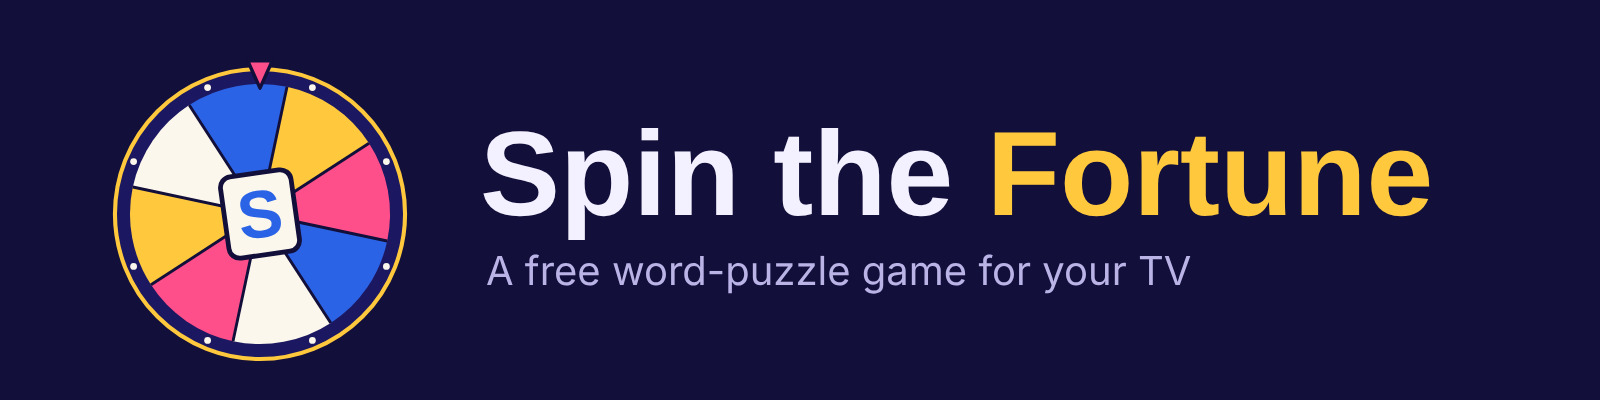
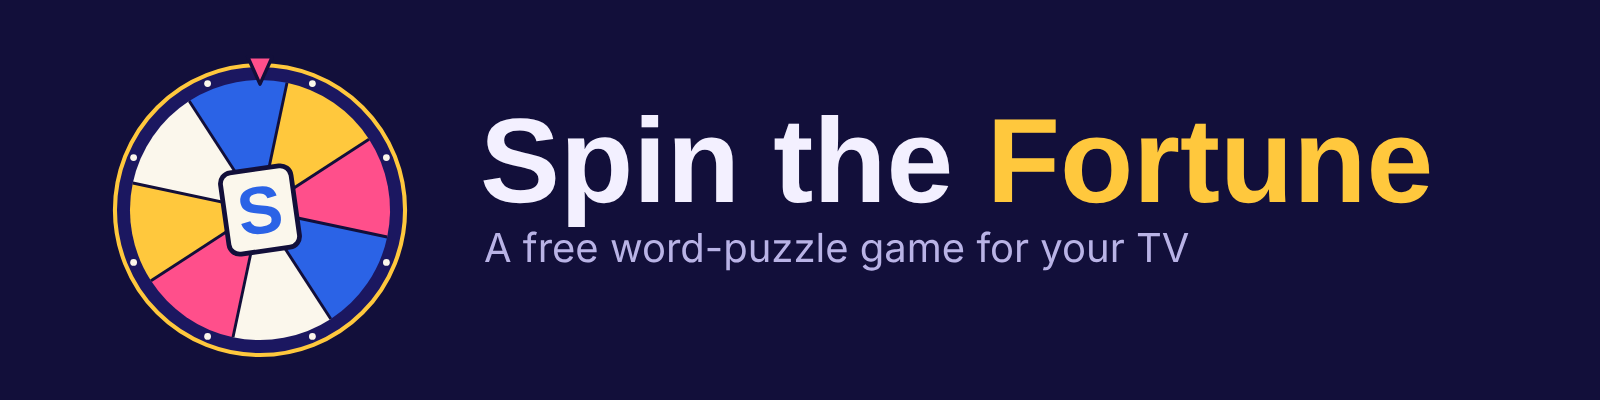
Brand: 3:1 cover and generator script
Claude-Session: https://claude.ai/code/session_017XtNKp1bUagEzyhgKsDigF

diff --git a/brand/make_brand.py b/brand/make_brand.py
@@ -1,0 +1,32 @@
+# Genera logo.svg, banner.svg e cover.svg (poi i PNG con Playwright). Uso: python3 make_brand.py
+import math
+def wheel(cx,cy,R,rot=0):
+    cols=['#ffc83d','#ff4f8b','#2b63e6','#fbf7ec','#ff4f8b','#ffc83d','#fbf7ec','#2b63e6']
+    n=len(cols); out=[]
+    for i,c in enumerate(cols):
+        a0=math.radians(i*360/n-90+rot); a1=math.radians((i+1)*360/n-90+rot)
+        x0,y0=cx+R*math.cos(a0),cy+R*math.sin(a0); x1,y1=cx+R*math.cos(a1),cy+R*math.sin(a1)
+        out.append(f'<path d="M{cx} {cy} L{x0:.1f} {y0:.1f} A{R} {R} 0 0 1 {x1:.1f} {y1:.1f} Z" fill="{c}"/>')
+    for i in range(n):
+        a=math.radians(i*360/n-90+rot)
+        out.append(f'<line x1="{cx}" y1="{cy}" x2="{cx+R*math.cos(a):.1f}" y2="{cy+R*math.sin(a):.1f}" stroke="#120f3a" stroke-width="{R*0.022:.1f}"/>')
+    return ''.join(out)
+def mark(cx,cy,R):
+    s=R/190
+    pegs=''.join(f'<circle cx="{cx+(R+10*s)*math.cos(math.radians(i*45-90+22.5)):.1f}" cy="{cy+(R+10*s)*math.sin(math.radians(i*45-90+22.5)):.1f}" r="{5*s:.1f}" fill="#fbf7ec"/>' for i in range(8))
+    return f'''<circle cx="{cx}" cy="{cy}" r="{R+22*s}" fill="#1b1760"/>
+<circle cx="{cx}" cy="{cy}" r="{R+22*s}" fill="none" stroke="#ffc83d" stroke-width="{6*s:.1f}"/>
+{wheel(cx,cy,R,12)}{pegs}
+<g transform="rotate(-8 {cx} {cy})"><rect x="{cx-52*s}" y="{cy-60*s}" width="{104*s}" height="{120*s}" rx="{16*s}" fill="#fbf7ec" stroke="#120f3a" stroke-width="{7*s}"/>
+<text x="{cx}" y="{cy+34*s}" text-anchor="middle" font-family="Arial Rounded MT Bold,Trebuchet MS,Arial,sans-serif" font-weight="900" font-size="{98*s}" fill="#2b63e6">S</text></g>
+<path d="M{cx-18*s} {cy-R-34*s} L{cx+18*s} {cy-R-34*s} L{cx} {cy-R+6*s} Z" fill="#ff4f8b" stroke="#120f3a" stroke-width="{5*s}" stroke-linejoin="round"/>'''
+FONT='Arial Rounded MT Bold,Trebuchet MS,Arial,sans-serif'
+def banner(w,h,cx,R,tx,fs,sub):
+    cy=h/2+10
+    return f'''<svg xmlns="http://www.w3.org/2000/svg" viewBox="0 0 {w} {h}"><rect width="{w}" height="{h}" fill="#120f3a"/>
+{mark(cx,cy,R)}
+<text x="{tx}" y="{cy-8}" font-family="{FONT}" font-weight="900" font-size="{fs}" fill="#f3f0ff">Spin the <tspan fill="#ffc83d">Fortune</tspan></text>
+<text x="{tx+4}" y="{cy+52}" font-family="system-ui,Arial,sans-serif" font-size="{sub}" fill="#b9b3e6">A free word-puzzle game for your TV</text></svg>'''
+open('logo.svg','w').write(f'<svg xmlns="http://www.w3.org/2000/svg" viewBox="0 0 512 512"><rect width="512" height="512" fill="#120f3a"/>{mark(256,268,170)}</svg>')
+open('banner.svg','w').write(banner(1600,400,260,130,480,120,40))
+open('cover.svg','w').write(banner(1200,400,215,105,395,80,30))
